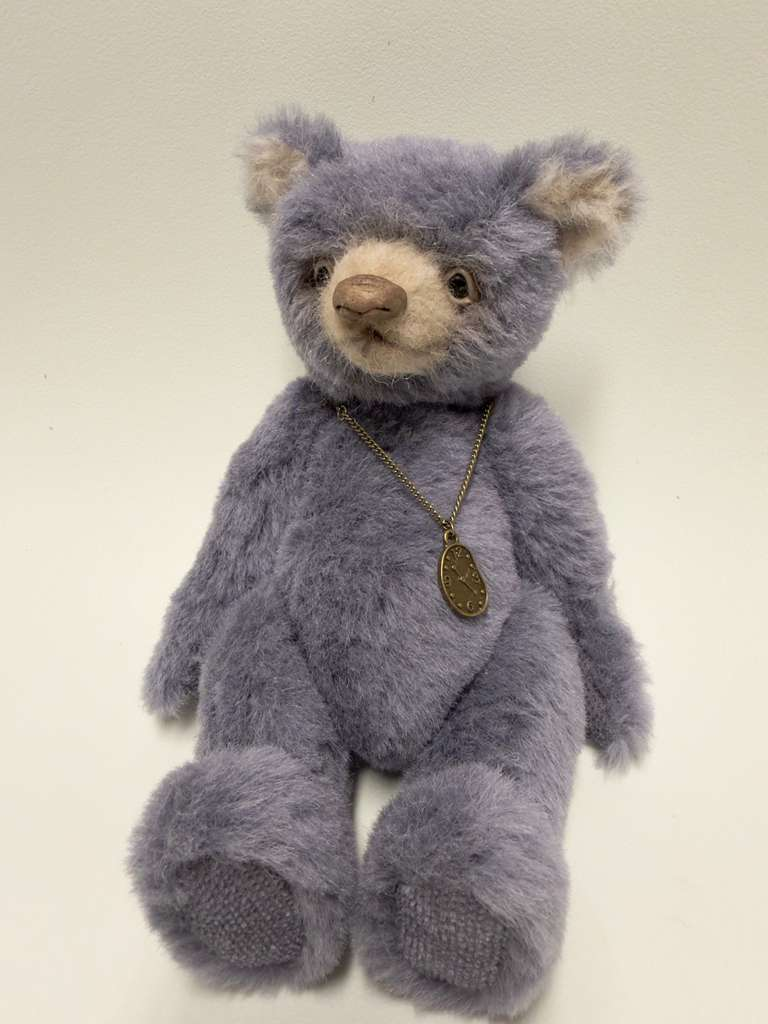
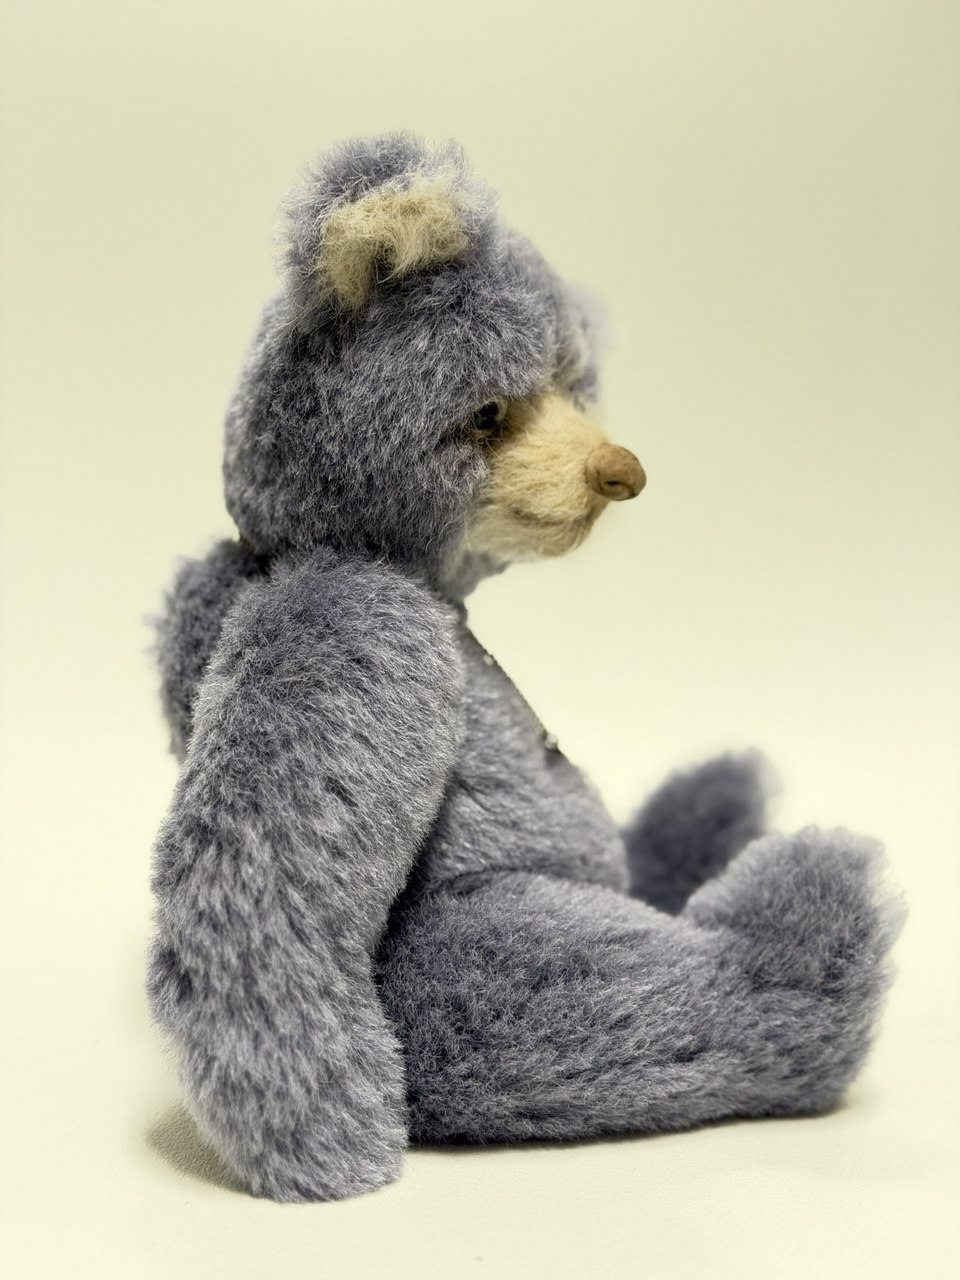
add squishy toys

diff --git a/index.html b/index.html
@@ -509,7 +509,7 @@
                     <div class="product-tags">
                         <span class="product-tag">Cozy</span>
                         <span class="product-tag">Woolly-Soft</span>
-                        <span class="product-tag">Handsome</span>
+                        <span class="product-tag">Warm</span>
                     </div>
                     <p class="description">One-of-a-kind hand-sewn bear Vincent stands 9 inch tall. Weight is about 10 oz.</p>
                     <ul>
@@ -551,7 +551,7 @@
                     </div>
                     <p class="description">One-of-a-kind hand-sewn bear Jackson stands 10 inch tall. His weight is about 1 lb 4 oz.</p>
                     <ul>
-                        <li>Curly vintage Steiff-schulte viscose</li>
+                        <li>Curly vintage Steiff-schulte viscose and leather for paws</li>
                         <li>5-way jointed</li>
                         <li>Stuffed with fine pine wood shaving, steel granulate, wood wool and linen fiber</li>
                         <li>Embroidered nose</li>
@@ -652,14 +652,52 @@
 
             <hr class="gradient-line" />
 
+            <!-- Elvis -->
+            <div class="product-block">
+                <div class="product-images">
+                    <img src="./index_files/elvis_2.jpeg" alt="Elvis Main" class="main-image">
+                    <div class="thumbnail-row">
+                        <img src="./index_files/elvis_1.jpeg" alt="Elvis 2">
+                        <img src="./index_files/elvis_3.jpeg" alt="Elvis 3">
+                        <img src="./index_files/elvis_4.jpeg" alt="Elvis 4">
+                    </div>
+                </div>
+                <div class="product-info">
+                    <h3>Elvis</h3>
+                    <span class="subtitle">Lucky Talisman</span>
+                    <div class="product-tags">
+                        <span class="product-tag">Sweet</span>
+                        <span class="product-tag">Squishy</span>
+                        <span class="product-tag">Adorable</span>
+                    </div>
+                    <p class="description">One-of-a-kind hand-sewn primitive teddy technique elefant Jonny stands 8 inch tall. His weight is about 11 oz. Don't see on it's own.</p>
+                    <ul>
+                        <li>Soviet Union vintage viscose</li>
+                        <li>3-way jointed</li>
+                        <li>Stuffed with birch/pine sawdust, wool and glass beads</li>
+                        <li>English glass eyes</li>
+                        <li>Embroidered nose</li>
+                    </ul>
+                    <span class="price">$175 + shipping</span>
+                    <div class="paypal-container">
+                        <!--<img src="./index_files/thank-you.jpg" alt="Sold Out" style="width: 200px;">-->
+                        <form action="https://www.paypal.com/ncp/payment/BH2BA4E6J92KL" method="post" target="_blank">
+                            <input type="submit" value="Buy Now" class="buy-now-btn">
+                        </form>
+                    </div>
+                </div>
+            </div>
+
+            <hr class="gradient-line" />
+
             <!-- Hudson -->
             <div class="product-block">
                 <div class="product-images">
-                    <img src="./index_files/hadson_4.jpeg" alt="Hudson Main" class="main-image">
+                    <img src="./index_files/hadson_2.jpeg" alt="Hudson Main" class="main-image">
                     <div class="thumbnail-row">
-                        <img src="./index_files/hadson_1.jpeg" alt="Hudson 1">
-                        <img src="./index_files/hadson_3.jpeg" alt="Hudson 3">
-                        <img src="./index_files/hadson_2.jpeg" alt="Hudson 2">
+                        <img src="./index_files/hadson_3.jpeg" alt="Hudson 1">
+                        <img src="./index_files/hadson_4.jpeg" alt="Hudson 3">
+                        <img src="./index_files/hadson_1.jpeg" alt="Hudson 2">
                     </div>
                 </div>
                 <div class="product-info">
@@ -672,7 +710,7 @@
                     </div>
                     <p class="description">One-of-a-kind hand-sewn bear Hudson stands 10 inch tall. His weight is about 1 lb 2 oz.</p>
                     <ul>
-                        <li>Curly vintage Steiff-schulte viscose</li>
+                        <li>Curly vintage Steiff-schulte viscose and leather for paws</li>
                         <li>5-way jointed</li>
                         <li>Stuffed with fine pine wood shaving, steel granulate, wood wool and linen fiber</li>
                         <li>Embroidered nose</li>
@@ -718,9 +756,48 @@
                         <li>Traditionally 5-way jointed</li>
                         <li>Stuffed with tamarack pine shavings, glass pellets, buckwheat hulls</li>
                         <li>English glass eyes</li>
+                        <li>Embroidered nose</li>
                         <li>Hand dyed cotton ribbon</li>
                     </ul>
                     <span class="price">$375 + shipping</span>
+                    <div class="paypal-container">
+                        <!--<img src="./index_files/thank-you.jpg" alt="Sold Out" style="width: 200px;">-->
+                        <form action="https://www.paypal.com/ncp/payment/BH2BA4E6J92KL" method="post" target="_blank">
+                            <input type="submit" value="Buy Now" class="buy-now-btn">
+                        </form>
+                    </div>
+                </div>
+            </div>
+
+            <hr class="gradient-line" />
+
+            <!-- Jonny -->
+            <div class="product-block">
+                <div class="product-images">
+                    <img src="./index_files/johnny_1.jpeg" alt="Jonny Main" class="main-image">
+                    <div class="thumbnail-row">
+                        <img src="./index_files/johnny_2.jpeg" alt="Jonny 2">
+                        <img src="./index_files/johnny_3.jpeg" alt="Jonny 3">
+                        <img src="./index_files/johnny_4.jpeg" alt="Jonny 4">
+                    </div>
+                </div>
+                <div class="product-info">
+                    <h3>Jonny</h3>
+                    <span class="subtitle">Little Squishy Baby</span>
+                    <div class="product-tags">
+                        <span class="product-tag">Soft</span>
+                        <span class="product-tag">Cute</span>
+                        <span class="product-tag">Huggable</span>
+                    </div>
+                    <p class="description">One-of-a-kind hand-sewn primitive teddy technique bear Jonny stands 8 inch tall. His weight is about 9 oz. Don't see on it's own.</p>
+                    <ul>
+                        <li>Soviet Union vintage viscose</li>
+                        <li>3-way jointed</li>
+                        <li>Stuffed with birch/pine sawdust, wool and glass beads</li>
+                        <li>English glass eyes</li>
+                        <li>Embroidered nose</li>
+                    </ul>
+                    <span class="price">$175 + shipping</span>
                     <div class="paypal-container">
                         <!--<img src="./index_files/thank-you.jpg" alt="Sold Out" style="width: 200px;">-->
                         <form action="https://www.paypal.com/ncp/payment/BH2BA4E6J92KL" method="post" target="_blank">
